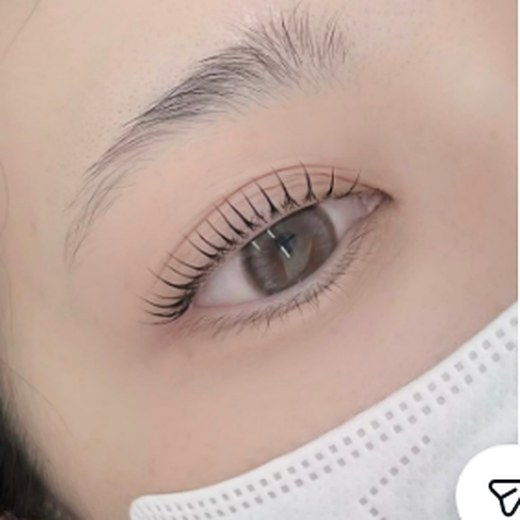
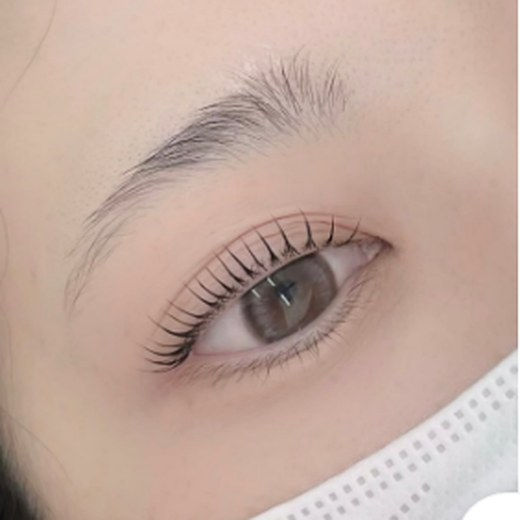
뷰티수강 원장님 작품 사진에서 인스타 UI 아이콘 남은 컷 교체

diff --git a/dia-info.html b/dia-info.html
@@ -2603,7 +2603,7 @@ document.addEventListener('DOMContentLoaded', function(){
           </div>
           <div id="ops-stats">
           <div id="ops-now" style="display:flex;justify-content:center;align-items:baseline;gap:8px;margin:0 0 8px;font-size:13px;color:#8a8a8a;"><span id="ops-date">2026년 11월 16일 월요일</span><strong id="ops-time" style="font-size:18px;font-weight:800;color:#c2456a;letter-spacing:.5px;">--:--</strong></div>
-          <div id="ops-asof" style="display:flex;justify-content:center;align-items:baseline;gap:5px;margin:0 0 16px;font-size:11.5px;color:#b09aa3;">데이터 최신화 <strong style="font-weight:800;color:#c2456a;">11-17 19:05</strong> 자동 갱신</div>
+          <div id="ops-asof" style="display:flex;justify-content:center;align-items:baseline;gap:5px;margin:0 0 16px;font-size:11.5px;color:#b09aa3;">데이터 최신화 <strong style="font-weight:800;color:#c2456a;">11-17 19:06</strong> 자동 갱신</div>
           <style>.ops-kpi{display:grid;grid-template-columns:repeat(4,1fr);gap:14px;margin-bottom:16px;}.ops-grid{display:grid;grid-template-columns:repeat(3,1fr);gap:16px;align-items:stretch;}.ops-sub-wrap{display:block;width:100%;margin-bottom:16px;}.ops-sub{display:flex;flex-direction:column;gap:9px;width:100%;min-width:0;}svg.ops-line{height:auto;display:block;}@media (max-width:880px){svg.ops-line{width:100% !important;max-width:none !important;}}@media (min-width:881px){svg.ops-line{width:100%;max-width:none;}}@media (min-width:881px){.ops-sub-wrap{max-width:50%;}}.ops-sub-row{display:block;}.ops-sub-side{display:none;}@media (min-width:881px){.ops-sub-row{display:flex;gap:16px;align-items:flex-start;}.ops-sub-row>.ops-sub-wrap{flex:1 1 50%;max-width:50%;margin-bottom:0;}.ops-sub-row>.ops-sub-side{display:block;flex:1 1 50%;min-width:0;}#ops-rank-side .rank-card{margin:0;box-sizing:border-box;overflow:hidden;}}.ops-sub-panel > div{width:100%;box-sizing:border-box;}@media (max-width:880px){.ops-grid{grid-template-columns:1fr !important;gap:14px !important;}.ops-sub{grid-column:1 / -1 !important;width:100%;}.ops-sub-panel{width:100%;}.ops-sub-panel > div{width:100% !important;max-width:none !important;box-sizing:border-box;margin-left:auto !important;margin-right:auto !important;}}.ops-grid svg:not(.ops-line){max-width:100%;}@media (max-width:880px){.ops-sub-tab{padding:3px 11px;font-size:11px;line-height:1.55;}}.ops-sub-tabs{display:flex;gap:6px;}@media (max-width:880px){.ops-sub-tabs{justify-content:center;}.ops-sub-tab{flex:1 1 0;}}.ops-sub-tab{text-align:center;padding:1px 7px;border-radius:999px;border:1px solid #f0e2e7;background:#fff;cursor:pointer;font-size:9.5px;font-weight:700;color:#a98d97;font-family:inherit;line-height:1.5;}.ops-sub-tab[data-on="1"]{background:#f7dbe4;border-color:#eab6c6;color:#b35172;}.ops-sub-panel{display:block;min-width:0;}.ops-grid>div{margin-bottom:0 !important;}.ops-tabs{display:flex;gap:8px;margin:2px 0 14px;}@media (max-width:880px){.ops-tabs{justify-content:center;}}.ops-tab{padding:8px 20px;border-radius:999px;border:1px solid #f0e2e7;background:#fff;cursor:pointer;font-size:13.5px;font-weight:700;color:#9a8b91;font-family:inherit;}.ops-tab[data-on="1"]{background:linear-gradient(90deg,#ef9ab4,#d55576);color:#fff;border-color:transparent;}.ops-cap{font-size:13px;font-weight:800;color:#8a7b81;margin:18px 0 10px;letter-spacing:.2px;}.ops-more{display:flex;align-items:center;justify-content:center;gap:5px;width:100%;margin-top:8px;padding:7px 0 2px;border:0;border-top:1px dashed #f2e4e9;background:transparent;cursor:pointer;font-size:13px;color:#c2456a;font-weight:700;}.ops-arrow{font-style:normal;transition:transform .3s ease;display:inline-block;}.ops-more[data-open="1"] .ops-arrow{transform:rotate(180deg);}.ops-more-body{max-height:0;overflow:hidden;transition:max-height .4s ease;}.ops-more-grid{display:grid;grid-template-columns:1fr 1fr;gap:0 14px;padding-top:7px;}@media (max-width:1100px){.ops-grid{grid-template-columns:repeat(2,1fr);}}@media (max-width:820px){.ops-kpi{grid-template-columns:repeat(2,1fr);}.ops-grid{grid-template-columns:1fr;}}</style>
           <div class="ops-kpi">
               <div class="ops-kpi-card" data-more="members" style="cursor:pointer;border:1px solid #f0e2e7;border-radius:14px;background:#fff;padding:15px 16px 13px;">

diff --git a/dia.html b/dia.html
@@ -2426,7 +2426,7 @@
               });
               var 요일명 = ['월','화','수','목','금','토','일'];
               var 라벨 = "이번 주";
-              var 기준 = "2026-11-17 19:05";
+              var 기준 = "2026-11-17 19:06";
               function 요일줄(w, m){
                 if(!w) return '';
                 var 참여 = 0, h = '<div class="mc-days">';
